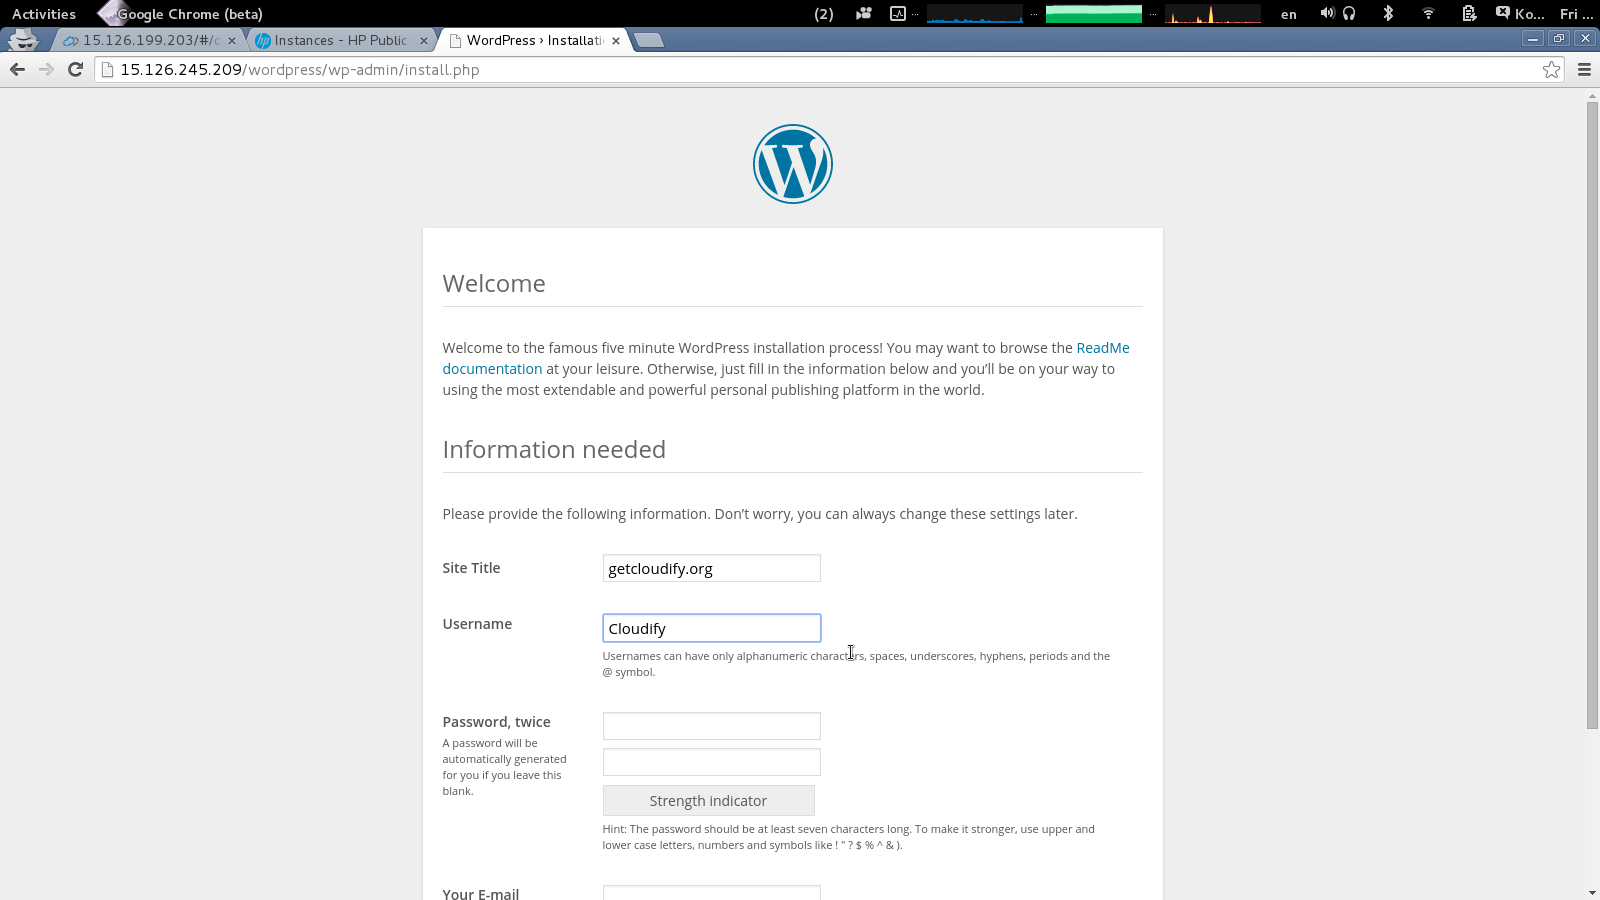
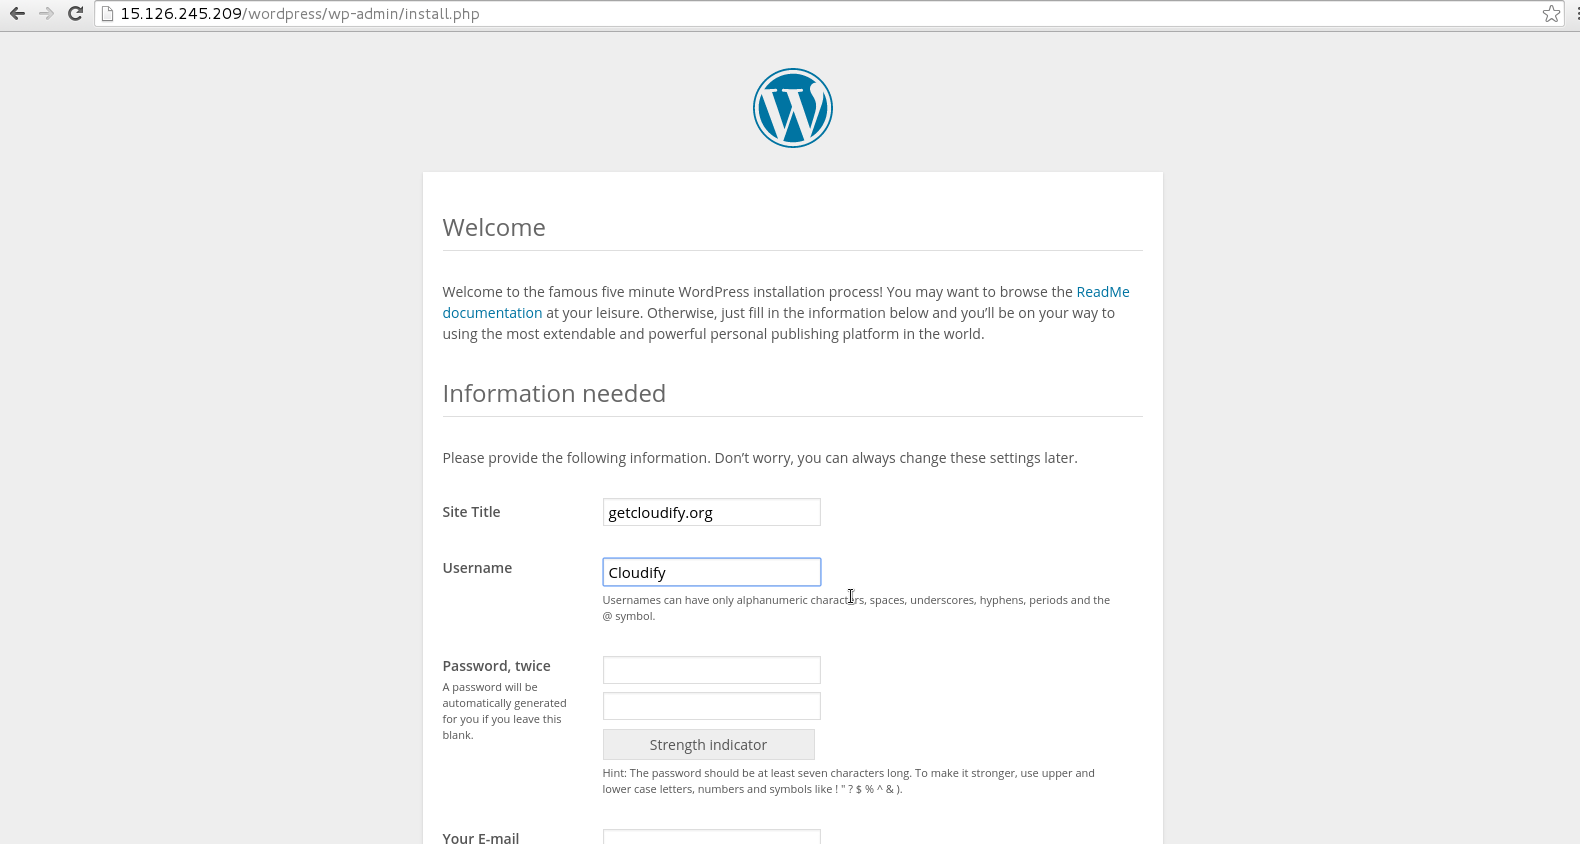
Updated pic + size

diff --git a/_posts/2014-08-01-puppet-automation-mysql-wordpress-install.html b/_posts/2014-08-01-puppet-automation-mysql-wordpress-install.html
@@ -192,9 +192,9 @@ tags:
 
 <h3><strong>Step 9: Enjoy your Orchestrated WordPress Stack!</strong></h3>
 
-<p><img src="/img/wp1.png" width="500" style="aligncenter"></p>
+<p><img src="/img/wp1.png" width="550" style="text-align: center;"></p>
 <br/>
-<p><img src="/img/wp2.png" width="500" style="aligncenter"></p>
+<p><img src="/img/wp2.png" width="550" style="text-align: center;"></p>
 
 <br/>
 <br/>
